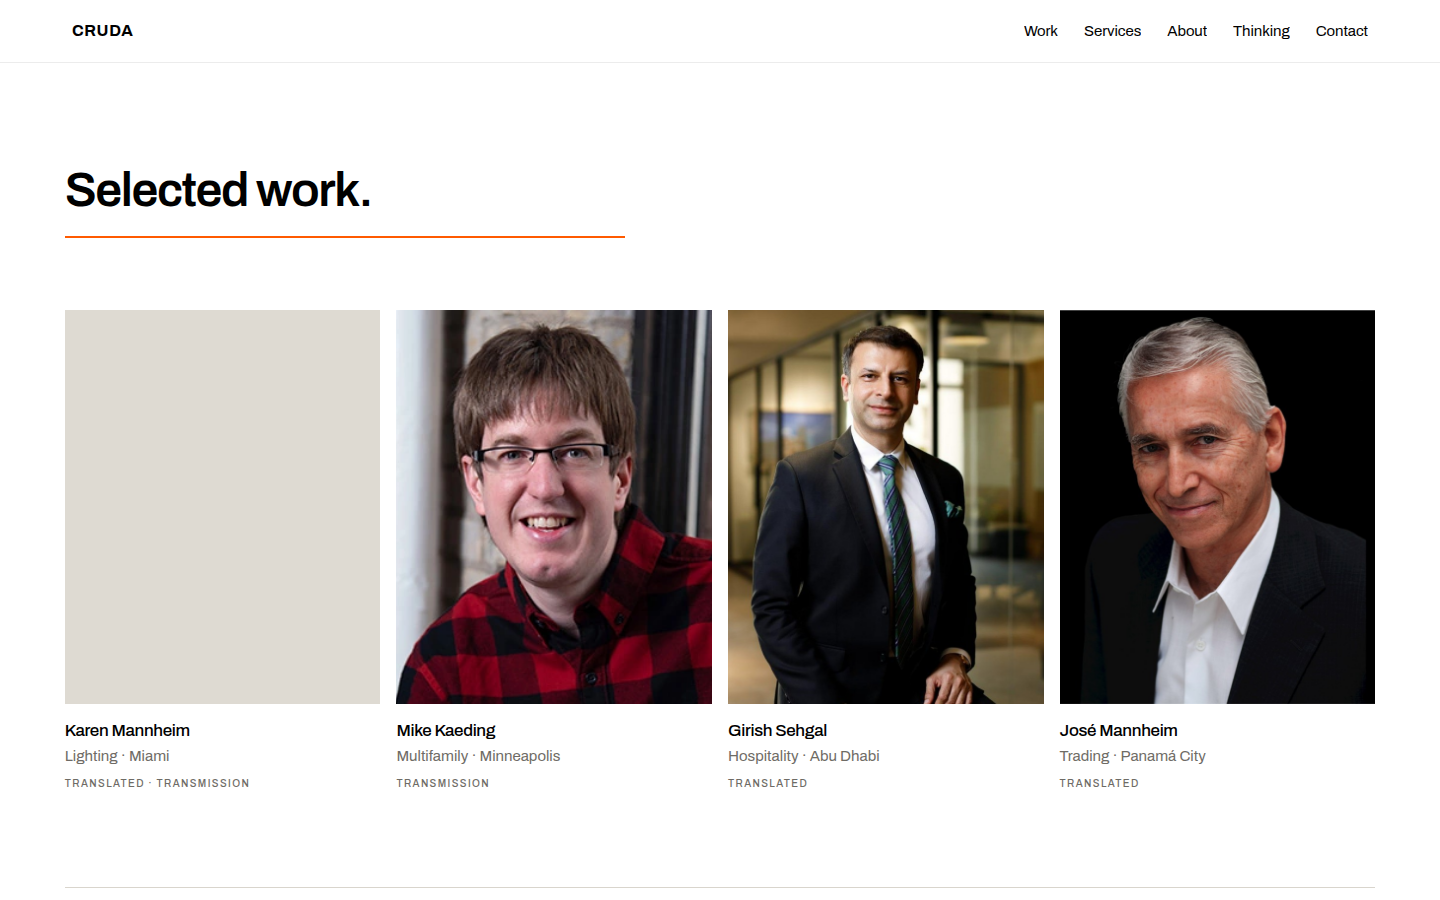
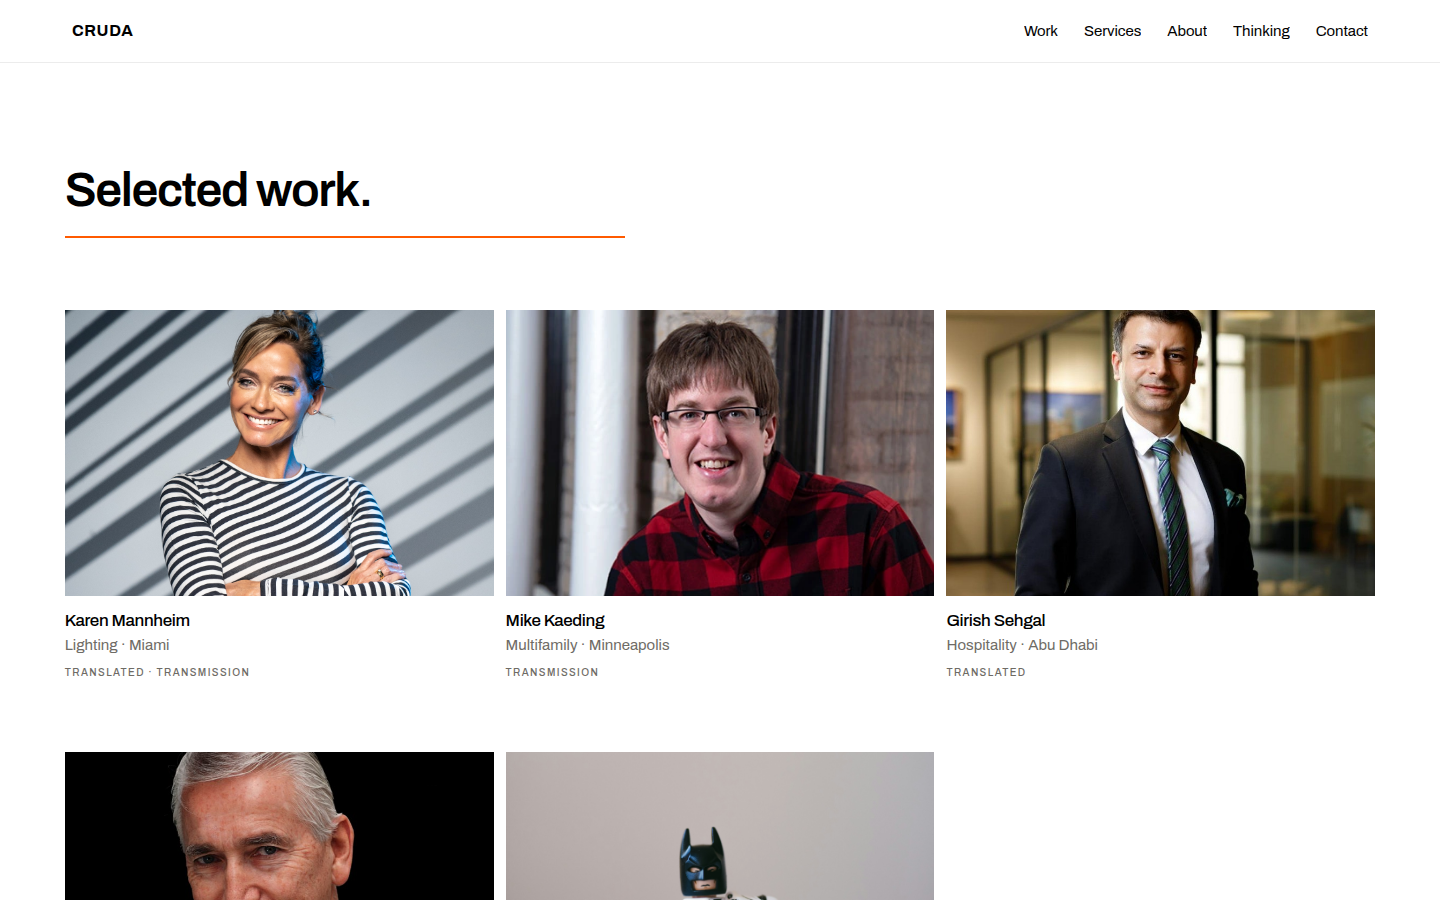
F21 · grid de 3 (Pentagram) + Confidential en la grilla
Mismo diseño F21, cambia solo la grilla y se suma Confidential
con su foto real.

Grid: repeat(3, 1fr) · col-gap 12 · row-gap 72 · foto 3:2 · a
color siempre. Ultima fila queda alineada a la izquierda cuando
la celda 3 esta vacia (no rellena).

Cards con foto real (5 en total):
· Karen  · /karen-mannheim.webp   · object-position center 25%
· Mike   · /mike-kaeding.webp     · object-position center 30%
· Girish · /girish-sehgal.webp    · object-position center 20%
· Jose   · /jose-mannheim.webp    · object-position center 30%
· Confid · /confidential-hero.jpg · object-position center 40%

Grid: [Karen | Mike | Girish] / [Jose | Confidential]

Lista (sin cambios de anatomia):
· German Noel  · Architecture · Salta      · TRANSLATED · <a>
· Jack Yeager  · Lighting · Midtown Miami  · TRANSLATED · TRANSMISSION · <div>
· Arman · BAUHOME · Residential · Jacksonville · <div>, sin servicio

Motion: sin cambios. Scale 1.03 solo en la foto marcada al hover.

Responsive: 700-1199 · 2 col · <700 · 1 col.

Capturas nuevas en docs/F21-shots/.

NO MERGE. Espera "ok" de Fran.

Claude-Session: https://claude.ai/code/session_01JYAFff2nd8GS6Ghghu76xP

diff --git a/src/components/home/selected-work.css b/src/components/home/selected-work.css
@@ -1,5 +1,5 @@
-/* Home · SELECTED WORK · F21 · 21-sep · diseño nuevo.
-   Sólo toca #selected-work. Prefix `sw-` para no colisionar. */
+/* Home · SELECTED WORK · F21 · 21-sep · grilla de 3 (Pentagram).
+   Sólo toca #selected-work. Prefix `sw-`. */
 
 .sw {
   background: var(--paper, #F1EFEB);
@@ -28,14 +28,17 @@
   margin: 20px 0 0;
 }
 
-/* Fila 1 · 4 cards con foto */
+/* Grilla F21 · repeat(3, 1fr) · col-gap 12 · row-gap 72.
+   La última fila queda alineada a la izquierda cuando la celda 3
+   está vacía (comportamiento nativo del grid: no rellena). */
 .sw-grid {
   display: grid;
-  grid-template-columns: repeat(4, minmax(0, 1fr));
-  column-gap: 16px;
-  row-gap: 48px;
+  grid-template-columns: repeat(3, minmax(0, 1fr));
+  column-gap: 12px;
+  row-gap: 72px;
   margin-top: clamp(48px, 8vh, 96px);
   align-items: start;
+  justify-content: start;
 }
 
 .sw-card {
@@ -44,7 +47,7 @@
   text-decoration: none;
 }
 .sw-card__m {
-  aspect-ratio: 4 / 5;
+  aspect-ratio: 3 / 2;
   overflow: hidden;
   background: #DEDAD2;
 }
@@ -52,14 +55,14 @@
   width: 100%;
   height: 100%;
   object-fit: cover;
-  object-position: center 20%;
+  object-position: center 25%;
   display: block;
   opacity: 1;
   transform: translateZ(0);
   transition: transform 400ms cubic-bezier(.22, 1, .36, 1);
 }
 .sw-card__n {
-  margin: 16px 0 0;
+  margin: 14px 0 0;
   font-family: var(--grot);
   font-size: 17px;
   font-weight: 500;
@@ -86,15 +89,14 @@
   color: var(--grey, #6E6B65);
 }
 
-/* Hover · sólo la card marcada, sólo su foto scale 1.03.
-   Las otras cards no cambian. */
+/* Hover · sólo la card marcada, sólo su foto scale 1.03. */
 @media (hover: hover) {
   .sw-card:hover .sw-card__img {
     transform: scale(1.03);
   }
 }
 
-/* Fila 2 · índice · gap 96 antes del primer hairline */
+/* Índice · gap 96 antes del primer hairline */
 .sw-index {
   margin-top: 96px;
   border-top: 1px solid var(--paper-line, #D9D5CD);
@@ -132,23 +134,18 @@
 }
 .sw-irow--flat { cursor: default; }
 
-/* Responsive · 900–1199 · 4 columnas más angostas (se conserva la grilla) */
+/* Responsive */
 @media (max-width: 1199px) {
-  .sw-grid { grid-template-columns: repeat(4, minmax(0, 1fr)); column-gap: 12px; }
+  .sw-grid { grid-template-columns: repeat(2, minmax(0, 1fr)); column-gap: 12px; }
 }
-/* <900 · 2 columnas · foto sigue 4:5 */
-@media (max-width: 899px) {
-  .sw-grid { grid-template-columns: repeat(2, minmax(0, 1fr)); column-gap: 16px; row-gap: 40px; }
+@media (max-width: 699px) {
+  .sw-grid { grid-template-columns: 1fr; column-gap: 0; row-gap: 48px; }
   .sw-irow {
     grid-template-columns: 1fr;
     gap: 4px;
     padding: 16px 0;
   }
   .sw-irow .sw-service { text-align: left; margin-top: 4px; }
-}
-/* <480 · misma grilla 2 columnas */
-@media (max-width: 479px) {
-  .sw-grid { grid-template-columns: repeat(2, minmax(0, 1fr)); column-gap: 12px; }
 }
 
 /* Reduced motion */

diff --git a/src/components/home/SelectedWork.tsx b/src/components/home/SelectedWork.tsx
@@ -27,6 +27,9 @@ type PhotoCard = {
   service: Door[]
   href: string
   imageSrc: string
+  /* Puntualiza `object-position` de la foto en el crop 3:2.
+     Default `center 25%` (regla F21 · rostro en tercio superior). */
+  objectPosition?: string
 }
 
 type IndexRow = {
@@ -36,8 +39,10 @@ type IndexRow = {
   href?: string
 }
 
-/* Datos F21. Karen usa /karen-mannheim.webp (único retrato en
-   /public/). Nunca la foto de Pezet. */
+/* Datos F21 · Regla de fotos + decisión Fran (21-sep).
+   Cards con foto real: Karen · Mike · Girish · José · Confidential.
+   object-position por foto para dejar la cara / centro visual en el
+   tercio superior del crop 3:2. */
 const PHOTO_CARDS: PhotoCard[] = [
   {
     name: 'Karen Mannheim',
@@ -45,6 +50,7 @@ const PHOTO_CARDS: PhotoCard[] = [
     service: ['TRANSLATED', 'TRANSMISSION'],
     href: '/work/karen-mannheim',
     imageSrc: '/karen-mannheim.webp',
+    objectPosition: 'center 25%',
   },
   {
     name: 'Mike Kaeding',
@@ -52,6 +58,7 @@ const PHOTO_CARDS: PhotoCard[] = [
     service: ['TRANSMISSION'],
     href: '/work/mike-kaeding',
     imageSrc: '/mike-kaeding.webp',
+    objectPosition: 'center 30%',
   },
   {
     name: 'Girish Sehgal',
@@ -59,6 +66,7 @@ const PHOTO_CARDS: PhotoCard[] = [
     service: ['TRANSLATED'],
     href: '/work/girish-sehgal',
     imageSrc: '/girish-sehgal.webp',
+    objectPosition: 'center 20%',
   },
   {
     name: 'José Mannheim',
@@ -66,6 +74,15 @@ const PHOTO_CARDS: PhotoCard[] = [
     service: ['TRANSLATED'],
     href: '/work/mannheim-trading',
     imageSrc: '/jose-mannheim.webp',
+    objectPosition: 'center 30%',
+  },
+  {
+    name: 'Confidential',
+    meta: 'Fashion · Dubai',
+    service: ['INTERPRETED'],
+    href: '/work/confidential-fashion-founder',
+    imageSrc: '/confidential-hero.jpg',
+    objectPosition: 'center 40%',
   },
 ]
 
@@ -75,12 +92,6 @@ const INDEX_ROWS: IndexRow[] = [
     meta: 'Architecture · Salta',
     service: ['TRANSLATED'],
     href: '/work/inout',
-  },
-  {
-    name: 'Confidential',
-    meta: 'Fashion · Dubai',
-    service: ['INTERPRETED'],
-    href: '/work/confidential-fashion-founder',
   },
   {
     name: 'Jack Yeager',
@@ -109,6 +120,11 @@ function PhotoCardEl({ card }: { card: PhotoCard }) {
           src={card.imageSrc}
           alt=""
           loading="lazy"
+          style={
+            card.objectPosition
+              ? { objectPosition: card.objectPosition }
+              : undefined
+          }
         />
       </div>
       <h3 className="sw-card__n">{card.name}</h3>
